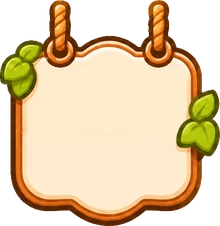
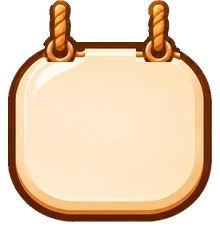
TabbyChef V80: oyun her zaman yatay, yatay düzen, sade tabelalar
Claude-Session: https://claude.ai/code/session_01UNLka1V3qjtzGGXjG521nK

diff --git a/index.html b/index.html
@@ -6,12 +6,12 @@
 <style>
 /* Layout: full-screen WebGL café (primary screen). Top: level/XP card + goal chip (left), coins (right). Bottom: hint line + 4-tab nav.
    Market = bottom sheet over the café (café stays visible for previews); Recipes and Merge = full panels above the nav. Single warm theme by design. */
-:root{--cream:#fbf3e4;--paper:#fff8ec;--ink:#4a2e1c;--gold:#f2b134;--olive:#8a9a3b;--pink:#f2a6a0;--wood:#c98a4e;--wood2:#b87a42;--mint:#bfe39a;--red:#d9534f;--sky:#bfe3f5;
+:root{--vw:1vw;--vh:1vh;--cream:#fbf3e4;--paper:#fff8ec;--ink:#4a2e1c;--gold:#f2b134;--olive:#8a9a3b;--pink:#f2a6a0;--wood:#c98a4e;--wood2:#b87a42;--mint:#bfe39a;--red:#d9534f;--sky:#bfe3f5;
   --sab:env(safe-area-inset-bottom,0px);--sat:env(safe-area-inset-top,0px);   /* Claude uygulaması :root'u zaten bu kadar boşlukla açarsa JS bunları 0 yapar */
   --navh:66px;--font-display:"Baloo 2","Nunito",system-ui,sans-serif;--font-body:"Nunito",system-ui,sans-serif;color-scheme:light}
 html{height:100%;box-sizing:border-box}body{height:100%}
 body{margin:0;background:#2b1a10;color:var(--ink);font-family:var(--font-body);overflow:hidden;-webkit-user-select:none;user-select:none;-webkit-tap-highlight-color:transparent;touch-action:none}
-#game{position:relative;width:100%;height:100%;overflow:hidden;background:#2b1a10}   /* 100dvh değil: sayfa çerçevenin güvenli alan boşluğunun içine sığmalı */
+#game{position:relative;width:100%;height:100%;overflow:hidden;background:#2b1a10}   /* calc(100*var(--vh)) değil: sayfa çerçevenin güvenli alan boşluğunun içine sığmalı */
 canvas{display:block;width:100%;height:100%;touch-action:none}
 button{font:inherit;color:inherit}
 svg.i{display:block;width:100%;height:100%}
@@ -29,7 +29,7 @@ svg.i{display:block;width:100%;height:100%}
 .xpbar{height:9px;border:2px solid var(--ink);border-radius:999px;background:#f3e2c6;overflow:hidden}
 .xpbar i{display:block;height:100%;width:0;background:var(--olive);transition:width .45s ease}
 .lvl-info small{font-size:11px;line-height:1;font-weight:800;opacity:.75;font-variant-numeric:tabular-nums}
-.goal{display:flex;align-items:center;gap:6px;max-width:min(62vw,260px);background:rgba(255,248,236,.94);border:2.5px solid var(--ink);border-radius:12px;padding:3px 9px 3px 5px;font-size:12px;font-weight:800;line-height:1.2;box-shadow:0 2px 0 var(--ink)}
+.goal{display:flex;align-items:center;gap:6px;max-width:min(calc(62*var(--vw)),260px);background:rgba(255,248,236,.94);border:2.5px solid var(--ink);border-radius:12px;padding:3px 9px 3px 5px;font-size:12px;font-weight:800;line-height:1.2;box-shadow:0 2px 0 var(--ink)}
 .goal .ic{width:18px;height:18px;flex:none}
 .goal em{font-style:normal;opacity:.7;font-variant-numeric:tabular-nums;white-space:nowrap}
 .bottom{position:absolute;left:0;right:0;bottom:calc(var(--navh) + var(--sab) + 6px);z-index:4;padding-inline:16px;pointer-events:none}
@@ -137,7 +137,7 @@ svg.i{display:block;width:100%;height:100%}
 .energy .ebar small{font-size:11px;font-weight:800;opacity:.75;line-height:1;font-variant-numeric:tabular-nums}
 .ebar .xpbar i{background:var(--gold)}
 .board-wrap{padding:6px 14px;display:flex;justify-content:center}
-.board{--cell:min(calc((100vw - 92px)/6),68px);display:grid;grid-template-columns:repeat(6,var(--cell));grid-template-rows:repeat(6,var(--cell));gap:3px;padding:3px;
+.board{--cell:min(calc((calc(100*var(--vw)) - 92px)/6),68px);display:grid;grid-template-columns:repeat(6,var(--cell));grid-template-rows:repeat(6,var(--cell));gap:3px;padding:3px;
   border-style:solid;border-width:30px 26px 28px 26px;border-image:url(img/board_frame.webp) 126 110 114 110 fill / 30px 26px 28px 26px stretch;filter:drop-shadow(0 4px 0 rgba(74,46,28,.35));touch-action:none}
 .cell{position:relative;background:url(img/cell_empty.png) center/100% 100% no-repeat;border-radius:12px;display:grid;place-items:center}
 .cell.hl{background-image:url(img/cell_match.png)}
@@ -164,7 +164,7 @@ svg.i{display:block;width:100%;height:100%}
 .info .box .tx b{display:block;font-family:var(--font-display);font-size:15px;line-height:1.1;margin-bottom:2px}
 .info .box .btn{font-size:13px;padding:6px 10px}
 /* bildirimler ve seviye */
-.toasts{position:absolute;left:50%;top:calc(max(10px,var(--sat)) + 104px);transform:translateX(-50%);z-index:12;display:flex;flex-direction:column;gap:6px;align-items:center;pointer-events:none;width:min(92vw,360px)}
+.toasts{position:absolute;left:50%;top:calc(max(10px,var(--sat)) + 104px);transform:translateX(-50%);z-index:12;display:flex;flex-direction:column;gap:6px;align-items:center;pointer-events:none;width:min(calc(92*var(--vw)),360px)}
 .toast{display:flex;align-items:center;gap:8px;background:var(--paper);border:3px solid var(--ink);border-radius:14px;padding:6px 12px 6px 6px;font-size:13px;font-weight:800;line-height:1.25;box-shadow:0 3px 0 var(--ink);animation:tin .3s ease}
 .toast .ic,.toast img{width:30px;height:30px;flex:none}
 .toast.out{opacity:0;transform:translateY(-6px);transition:all .3s}
@@ -180,8 +180,8 @@ svg.i{display:block;width:100%;height:100%}
 .lvcard p{margin:0 0 10px;font-size:13px;font-weight:800;opacity:.8}
 .lvgift{display:flex;justify-content:center;gap:10px;margin:2px 0 10px}.lvgift>span{display:inline-flex;align-items:center;gap:5px;padding:4px 12px;border:2.5px solid var(--ink);border-radius:999px;background:#fff3d6;font-family:var(--font-display);font-size:17px}.lvgift .ic,.lvgift svg{width:22px!important;height:22px!important;flex:none}
 .lvup{width:min(100%,318px);padding:36px 12px 12px}.lvup .star{width:74px;height:74px;top:-34px}.lvup .star span{font-size:24px}.lvup h3{font-size:21px}.lvup p{margin-bottom:6px}
-.lvup .unl{display:grid;grid-template-columns:1fr 1fr;gap:5px;max-height:26vh;margin-bottom:10px}.lvup .unl div{font-size:10.5px;gap:5px;padding:3px 6px 3px 3px;border-width:2px;border-radius:10px}.lvup .unl img,.lvup .unl .ic{width:26px;height:26px;border-radius:6px}.lvup .unl div:only-child{grid-column:1/-1}.lvup .btn{padding-top:8px;padding-bottom:8px}
-.unl{display:flex;flex-direction:column;gap:6px;max-height:42vh;overflow-y:auto;margin-bottom:12px;text-align:left}
+.lvup .unl{display:grid;grid-template-columns:1fr 1fr;gap:5px;max-height:calc(26*var(--vh));margin-bottom:10px}.lvup .unl div{font-size:10.5px;gap:5px;padding:3px 6px 3px 3px;border-width:2px;border-radius:10px}.lvup .unl img,.lvup .unl .ic{width:26px;height:26px;border-radius:6px}.lvup .unl div:only-child{grid-column:1/-1}.lvup .btn{padding-top:8px;padding-bottom:8px}
+.unl{display:flex;flex-direction:column;gap:6px;max-height:calc(42*var(--vh));overflow-y:auto;margin-bottom:12px;text-align:left}
 .unl div{display:flex;align-items:center;gap:8px;background:var(--paper);border:2.5px solid var(--ink);border-radius:12px;padding:4px 8px 4px 4px;font-size:12px;font-weight:800;line-height:1.2}
 .unl img,.unl .ic{width:36px;height:36px;flex:none;border-radius:8px;background:#f6e6cc}
 .confetti{position:absolute;inset:0;pointer-events:none;overflow:hidden;border-radius:22px}
@@ -234,6 +234,42 @@ svg.i{display:block;width:100%;height:100%}
   <div class="modal" id="lvModal" hidden></div>
   <div id="load" hidden><div>Kafe hazırlanıyor…</div><div id="bar"><i id="barfill"></i></div><small id="loadmsg">Yosun ve Poşa yükleniyor (yaklaşık 6 MB).</small></div>
 </div>
+
+<script>
+/* ================= YATAY OYUN: telefon dikey tutulsa da oyun yatay açılır =================
+   Dikeyde sayfa (body) 90° döndürülür. Oyunun bütün kodu "sanal" yatay bir ekran görür: innerWidth/innerHeight,
+   dokunma koordinatları (clientX/Y, pageX/Y), getBoundingClientRect ve elementFromPoint bu sanal ekrana çevrilir. */
+(function(){
+  const de=document.documentElement,R={on:false,w:0,h:0};window.__ROT=R;
+  const realW=()=>de.clientWidth||screen.width,realH=()=>de.clientHeight||screen.height;
+  const dIW=Object.getOwnPropertyDescriptor(window,'innerWidth')||Object.getOwnPropertyDescriptor(Window.prototype,'innerWidth');
+  const dIH=Object.getOwnPropertyDescriptor(window,'innerHeight')||Object.getOwnPropertyDescriptor(Window.prototype,'innerHeight');
+  const iw=()=>dIW&&dIW.get?dIW.get.call(window):realW(),ih=()=>dIH&&dIH.get?dIH.get.call(window):realH();
+  try{Object.defineProperty(window,'innerWidth',{configurable:true,get(){return R.on?ih():iw()}});Object.defineProperty(window,'innerHeight',{configurable:true,get(){return R.on?iw():ih()}})}catch(e){}
+  // olay koordinatları: gerçek (rx,ry) -> sanal (ry, W-rx)
+  const wrap=(P,a,b)=>{const da=Object.getOwnPropertyDescriptor(P,a),db=Object.getOwnPropertyDescriptor(P,b);if(!da||!db||!da.get)return;
+    Object.defineProperty(P,a,{configurable:true,get(){const v=da.get.call(this);return R.on?db.get.call(this):v}});
+    Object.defineProperty(P,b,{configurable:true,get(){const v=db.get.call(this);return R.on?R.w-da.get.call(this):v}})};
+  wrap(MouseEvent.prototype,'clientX','clientY');wrap(MouseEvent.prototype,'pageX','pageY');
+  if(window.Touch){wrap(Touch.prototype,'clientX','clientY');wrap(Touch.prototype,'pageX','pageY')}
+  const gbr=Element.prototype.getBoundingClientRect;
+  Element.prototype.getBoundingClientRect=function(){const r=gbr.call(this);if(!R.on)return r;const W=R.w;
+    const o={left:r.top,top:W-r.right,width:r.height,height:r.width};o.right=o.left+o.width;o.bottom=o.top+o.height;o.x=o.left;o.y=o.top;o.toJSON=()=>o;return o};
+  const efp=Document.prototype.elementFromPoint;Document.prototype.elementFromPoint=function(x,y){return R.on?efp.call(this,R.w-y,x):efp.call(this,x,y)};
+  const efps=Document.prototype.elementsFromPoint;if(efps)Document.prototype.elementsFromPoint=function(x,y){return R.on?efps.call(this,R.w-y,x):efps.call(this,x,y)};
+  let st=null;
+  function apply(){const w=iw(),h=ih(),on=h>w*1.05;R.on=on;R.w=w;R.h=h;de.classList.toggle('rot',on);de.classList.toggle('land',true);
+    const VW=on?h:w,VH=on?w:h;de.style.setProperty('--vw',VW/100+'px');de.style.setProperty('--vh',VH/100+'px');
+    if(!st){st=document.createElement('style');document.head.appendChild(st)}
+    st.textContent=on?`html.rot,html.rot body{overflow:hidden}html.rot body{position:fixed;left:0;top:0;width:${h}px;height:${w}px;transform-origin:0 0;transform:translateX(${w}px) rotate(90deg)}
+      html.rot{--sat:0px;--sab:0px}`:'';
+    // oyun kendi boyutunu yeniden hesaplasın
+    try{window.dispatchEvent(new Event('rotchange'))}catch(e){}}
+  apply();addEventListener('resize',()=>{const was=R.on+':'+R.w;apply();if(was!==R.on+':'+R.w)setTimeout(()=>dispatchEvent(new Event('resize')),30)});
+  if(window.visualViewport)visualViewport.addEventListener('resize',apply);
+  try{screen.orientation&&screen.orientation.lock&&screen.orientation.lock('landscape').catch(()=>{})}catch(e){}
+})();
+</script>
 
 <script type="importmap">
 {"imports":{"three":"./three/build/three.module.js","three/addons/":"./three/examples/jsm/"}}
@@ -2608,12 +2644,11 @@ $('nav').innerHTML=NAV.map(n=>`<button type="button" data-nav="${n.id}" aria-pre
 {const st=document.createElement('style');st.textContent=`
 .nonav{--navh:0px}.nonav #nav{display:none!important}.nonav .sheet{bottom:calc(var(--sab) + 6px)}
 #navHide,#navShow{display:none}
-@media (orientation:landscape){
-  #navHide{display:grid;place-items:center;position:absolute;right:max(10px,env(safe-area-inset-right,0px));top:50%;transform:translateY(-50%);width:38px;height:38px;border:3px solid var(--ink);border-radius:50%;background:var(--paper);box-shadow:0 3px 0 var(--ink);cursor:pointer;padding:6px}
-  #navHide .ic,#navShow .ic{width:100%;height:100%}
-  .navmin{--navh:0px}.navmin #nav{display:none!important}
-  .navmin:not(.nonav) #navShow{display:flex;align-items:center;gap:6px;position:absolute;z-index:8;left:max(12px,env(safe-area-inset-left,0px));bottom:calc(var(--sab) + 10px);border:3px solid var(--ink);border-radius:999px;background:var(--paper);box-shadow:0 3px 0 var(--ink);padding:5px 12px 5px 6px;font-family:var(--font-display);font-weight:800;font-size:13px;cursor:pointer}
-  .navmin:not(.nonav) #navShow .ic{width:24px;height:24px}}`;document.head.appendChild(st)}
+html.land #navHide{display:grid;place-items:center;position:absolute;right:max(10px,env(safe-area-inset-right,0px));top:50%;transform:translateY(-50%);width:38px;height:38px;border:3px solid var(--ink);border-radius:50%;background:var(--paper);box-shadow:0 3px 0 var(--ink);cursor:pointer;padding:6px}
+html.land #navHide .ic,#navShow .ic{width:100%;height:100%}
+html.land .navmin{--navh:0px} html.land .navmin #nav{display:none!important}
+html.land .navmin:not(.nonav) #navShow{display:flex;align-items:center;gap:6px;position:absolute;z-index:8;left:max(12px,env(safe-area-inset-left,0px));bottom:calc(var(--sab) + 10px);border:3px solid var(--ink);border-radius:999px;background:var(--paper);box-shadow:0 3px 0 var(--ink);padding:5px 12px 5px 6px;font-family:var(--font-display);font-weight:800;font-size:13px;cursor:pointer}
+html.land .navmin:not(.nonav) #navShow .ic{width:24px;height:24px}`;document.head.appendChild(st)}
 UI_IC.chevDown=SV(`<path d="M18 26 L32 40 L46 26" stroke-width="6"/>`);UI_IC.chevUp=SV(`<path d="M18 38 L32 24 L46 38" stroke-width="6"/>`);
 {const h=document.createElement('button');h.type='button';h.id='navHide';h.setAttribute('aria-label','Alt menüyü gizle');h.innerHTML=ic('chevDown');$('nav').appendChild(h);
  const sh=document.createElement('button');sh.type='button';sh.id='navShow';sh.setAttribute('aria-label','Alt menüyü göster');sh.innerHTML=`${ic('chevUp')}Menüler`;$('game').appendChild(sh);
@@ -3069,7 +3104,7 @@ const PAW=`<svg viewBox="0 0 40 40" aria-hidden="true"><ellipse cx="20" cy="26" 
 #intro{position:absolute;inset:0;z-index:40;display:flex;flex-direction:column;align-items:center;justify-content:center;gap:18px;background:var(--cream);
   background-image:radial-gradient(circle at 12px 12px,rgba(201,138,78,.12) 2px,transparent 2.5px);background-size:24px 24px;transition:opacity .5s ease;cursor:pointer;padding:20px;box-sizing:border-box}
 #intro.out{opacity:0;pointer-events:none}
-#intro .logo{width:min(80vw,380px);height:auto;overflow:visible}
+#intro .logo{width:min(calc(80*var(--vw)),380px);height:auto;overflow:visible}
 .lg-head{opacity:0;transform-box:fill-box;transform-origin:50% 100%;animation:lgHead .7s cubic-bezier(.3,1.6,.5,1) 1.1s forwards}
 @keyframes lgHead{0%{opacity:0;transform:translateY(40px) scale(.4)}100%{opacity:1;transform:none}}
 .lg-hat{opacity:0;transform-box:fill-box;transform-origin:50% 100%;animation:lgHat .8s cubic-bezier(.25,1.5,.5,1) 1.7s forwards}
@@ -3090,7 +3125,7 @@ const PAW=`<svg viewBox="0 0 40 40" aria-hidden="true"><ellipse cx="20" cy="26" 
 #intro .sub{font-family:var(--font-display);font-weight:800;font-size:15px;color:var(--wood2);opacity:0;animation:fadeUp .5s ease 3.0s forwards;text-align:center}
 #intro .ld{display:flex;flex-direction:column;align-items:center;gap:6px;min-height:40px}
 #intro .ld[hidden]{display:none}
-#intro .ld div{width:min(60vw,240px);height:10px;border:3px solid var(--ink);border-radius:999px;overflow:hidden;background:#fff8ec}
+#intro .ld div{width:min(calc(60*var(--vw)),240px);height:10px;border:3px solid var(--ink);border-radius:999px;overflow:hidden;background:#fff8ec}
 #intro .ld i{display:block;height:100%;width:0;background:var(--gold)}
 #intro .ld small{font-size:12px;font-weight:800;opacity:.7}
 #intro .skip{position:absolute;bottom:calc(16px + var(--sab));font-size:12px;font-weight:800;opacity:.55}
@@ -3180,7 +3215,7 @@ const CE={role:null,cfg:null,orig:null,mode:'create',step:0,tab:'look',cat:'fur'
 const CE_CATS=[['fur','Kürk'],['pattern','Desen'],['marks','İşaretler'],['eyes','Gözler'],['ears','Kulaklar'],['face','Yüz'],['body','Vücut']];
 const CW_SLOTS=[['outfit','Takımlar'],['apron','Önlük'],['neck','Boyun'],['hat','Şapka']];
 {const st=document.createElement('style');st.textContent=`
-#ce .pv{position:relative;height:min(36vh,300px);margin:6px 14px 0;border:3px solid var(--ink);border-radius:18px;background:radial-gradient(circle at 50% 40%,#fff8ec,#f3e2c6);overflow:hidden;flex:none}
+#ce .pv{position:relative;height:min(calc(36*var(--vh)),300px);margin:6px 14px 0;border:3px solid var(--ink);border-radius:18px;background:radial-gradient(circle at 50% 40%,#fff8ec,#f3e2c6);overflow:hidden;flex:none}
 #ce .pv canvas{display:block}
 #ce .pv .views{position:absolute;right:8px;top:8px;display:flex;flex-direction:column;gap:6px}
 #ce .pv .views button{width:36px;height:36px;padding:6px}
@@ -3209,7 +3244,7 @@ const CW_SLOTS=[['outfit','Takımlar'],['apron','Önlük'],['neck','Boyun'],['ha
 .ce-foot .cost{text-align:center;font-size:12px;font-weight:800;line-height:1.3}
 .ce-foot .btn{font-size:14px;padding:8px 12px}
 .team{display:flex;flex-direction:column;gap:10px;padding:10px 14px 18px;max-width:560px;margin:0 auto}
-.team .tlogo{width:min(60vw,240px);margin:4px auto 0;display:block}
+.team .tlogo{width:min(calc(60*var(--vw)),240px);margin:4px auto 0;display:block}
 .tc{display:flex;gap:10px;align-items:center;background:var(--paper);border:3px solid var(--ink);border-radius:16px;padding:8px;box-shadow:0 3px 0 var(--ink)}
 .tc .th{width:86px;height:104px;flex:none;border-radius:12px;background:#f6e6cc;overflow:hidden}.tc .th img{width:100%;height:100%;object-fit:contain}
 .tc .tx{flex:1;min-width:0;display:flex;flex-direction:column;gap:3px;font-size:12px;font-weight:800;line-height:1.3}
@@ -4241,7 +4276,7 @@ function renderPrices(L){const rs=RECIPES.filter(r=>S.unlocked[r.id]);
     if(setPrice(id,priceOf(RECIPE[id])+(+b.dataset.pd))){sfx('tap');renderMenu()}else sfx('nope')}}
 {const st=document.createElement('style');st.textContent=`
 .pill.reppill{cursor:pointer;display:inline-flex;flex-direction:row;align-items:center;gap:4px;white-space:nowrap;font:inherit;font-family:var(--font-display);font-weight:800;color:var(--ink)}.pill.reppill svg{width:20px;height:20px;flex:none}
-.repcard{text-align:left;max-height:86vh;overflow:auto}.repcard h3{text-align:center}.repcard h4{margin:10px 0 4px;font-family:var(--font-display)}
+.repcard{text-align:left;max-height:calc(86*var(--vh));overflow:auto}.repcard h3{text-align:center}.repcard h4{margin:10px 0 4px;font-family:var(--font-display)}
 .rtop{display:flex;align-items:center;gap:8px;justify-content:center;flex-wrap:wrap}.rtop>b{font-family:var(--font-display);font-size:34px;line-height:1}.rtop span{font-size:13px;font-weight:800}
 .rnote{font-size:12px!important;opacity:.75;text-align:center}
 .stars{display:inline-flex;gap:1px}.stars .st{width:14px;height:14px;background:rgba(74,46,28,.18);clip-path:polygon(50% 0,61% 35%,98% 35%,68% 57%,79% 91%,50% 70%,21% 91%,32% 57%,2% 35%,39% 35%)}
@@ -4587,7 +4622,7 @@ function stockUI(){const e=$('stkChip');if(!e||!S.created)return;const T=stockS(
 .sk .pn{color:#4f86c6}.sk.off{opacity:.55}.sk.low{background:#fff3d6}.sk.out{background:#ffe1dc}.sk.out .tx b em{color:#c8443a}
 .sbar{display:block;height:8px;border-radius:6px;border:2px solid var(--ink);background:linear-gradient(90deg,#7fae4a var(--w),rgba(74,46,28,.12) var(--w))}.sk.low .sbar{background:linear-gradient(90deg,#e0a33a var(--w),rgba(74,46,28,.12) var(--w))}
 .sk .stars .st{width:11px;height:11px}
-.supcard{text-align:left;max-height:88vh;overflow:auto;width:min(94vw,420px);padding-top:16px}.supcard.noanim{animation:none}.supcard h3{text-align:center}
+.supcard{text-align:left;max-height:calc(88*var(--vh));overflow:auto;width:min(calc(94*var(--vw)),420px);padding-top:16px}.supcard.noanim{animation:none}.supcard h3{text-align:center}
 .sups{display:flex;flex-direction:column;gap:7px;margin:8px 0 10px}.sup{font:inherit;text-align:left;display:flex;flex-direction:column;gap:2px;padding:8px 11px;border:3px solid var(--ink);border-radius:14px;background:linear-gradient(90deg,var(--c) 0 8px,var(--paper) 8px);padding-left:18px;color:var(--ink);cursor:pointer}
 .sup b{font-family:var(--font-display);font-size:16px}.sup span{font-size:12px;font-weight:700}.sup .row{display:flex;gap:8px;align-items:center;flex-wrap:wrap}.sup em{font-style:normal;font-weight:800;display:inline-flex;align-items:center;gap:2px}.sup em svg{width:15px;height:15px}
 .sup .miss{color:#b0503c}.sup:active{transform:scale(.98)}
@@ -4747,7 +4782,7 @@ function openFin(){if($('finModal'))return;UI.modal=true;let win=60;const md=doc
 
 {const st=document.createElement('style');st.textContent=`
 .finmini{display:inline-grid;width:18px;height:18px;margin-left:2px;opacity:.85}.finmini svg{width:18px;height:18px}
-.fincard,.repcard{text-align:left;max-height:88vh;overflow:auto;width:min(94vw,420px);padding-top:16px}.fincard h3{text-align:center}.fincard h4{margin:12px 0 4px;font-family:var(--font-display)}
+.fincard,.repcard{text-align:left;max-height:calc(88*var(--vh));overflow:auto;width:min(calc(94*var(--vw)),420px);padding-top:16px}.fincard h3{text-align:center}.fincard h4{margin:12px 0 4px;font-family:var(--font-display)}
 .fseg{display:flex;gap:6px;margin:6px 0}.fseg button,.rfilt button{flex:1;font:inherit;font-family:var(--font-display);font-weight:800;font-size:14px;padding:5px;border:3px solid var(--ink);border-radius:12px;background:var(--paper);color:var(--ink);cursor:pointer}
 .fseg button[aria-pressed="true"],.rfilt button[aria-pressed="true"]{background:var(--gold)}
 .ftiles{display:grid;grid-template-columns:repeat(4,1fr);gap:5px;margin:6px 0}.ft{font:inherit;color:var(--ink);background:var(--paper);border:2.5px solid var(--ink);border-radius:12px;padding:5px 3px;display:flex;flex-direction:column;align-items:center;text-align:center;min-width:0}
@@ -4843,7 +4878,7 @@ function bend(ch,dur,onMid){return new Promise(res=>{const sp=[ch.o.getObjectByN
     if(!mid&&u>=0.5){mid=true;try{onMid&&onMid()}catch(e){console.warn(e)}}if(u>=1){ch.post=null;res()}}})}
 
 {const st=document.createElement('style');st.textContent=`
-.daycard{text-align:left;max-height:88vh;overflow:auto;width:min(94vw,400px);padding-top:14px}.daycard h4{margin:12px 0 4px;font-family:var(--font-display)}
+.daycard{text-align:left;max-height:calc(88*var(--vh));overflow:auto;width:min(calc(94*var(--vw)),400px);padding-top:14px}.daycard h4{margin:12px 0 4px;font-family:var(--font-display)}
 .dhead{display:flex;align-items:center;gap:10px;justify-content:center}.dhead>svg{width:44px!important;height:44px!important;flex:none}.dhead small{display:block;font-weight:800;opacity:.7}.dhead h3{margin:0}
 .dnet{display:flex;align-items:center;justify-content:space-between;margin:10px 0 6px;padding:8px 14px;border:3px solid var(--ink);border-radius:16px;background:#fff3d6}
 .dnet span{font-weight:800}.dnet b{font-family:var(--font-display);font-size:26px;display:inline-flex;align-items:center;gap:4px}.dnet b svg{width:24px;height:24px}
@@ -5913,7 +5948,7 @@ function hireCand(id,swapKey,only){const C=S.cand,c=C&&C.list.find(x=>x.id===id)
 .srow{display:grid;grid-template-columns:86px auto 1fr;align-items:center;gap:6px;font-size:11.5px;font-weight:700}.srow em{font-style:normal;opacity:.7;white-space:nowrap;overflow:hidden;text-overflow:ellipsis}
 .sen{display:flex;align-items:center;gap:6px;font-size:11.5px;font-weight:800}.ebar{flex:1;height:8px;border:2px solid var(--ink);border-radius:99px;background:#f3e3bf;overflow:hidden}.ebar i{display:block;height:100%;background:#8fd16a}
 .wsum{font-size:12.5px;font-weight:700;text-align:center;margin:10px 0}.wsum .ic{width:14px;height:14px;display:inline-grid;vertical-align:-2px}
-.hirecard2{max-height:88vh;display:flex;flex-direction:column;gap:8px;width:min(440px,94vw)}.hirecard2 p{margin:0;font-size:12.5px}
+.hirecard2{max-height:calc(88*var(--vh));display:flex;flex-direction:column;gap:8px;width:min(440px,calc(94*var(--vw)))}.hirecard2 p{margin:0;font-size:12.5px}
 .adrow{display:flex;gap:6px}.adrow .btn{flex:1;flex-direction:column;align-items:flex-start;gap:0;padding:6px 8px;text-align:left}.adrow small{font-size:10.5px;font-weight:700;opacity:.8}.adrow .ic{width:12px;height:12px;display:inline-grid}
 .clist{overflow:auto;display:flex;flex-direction:column;gap:8px;min-height:0}
 .cand{display:grid;grid-template-columns:76px 1fr;gap:8px;padding:8px;border:2.5px solid var(--ink);border-radius:14px;background:#fffaf0}
@@ -6044,7 +6079,7 @@ const skStars=(v,cls='')=>{let h='';for(let i=1;i<=5;i++){const f=v>=i-0.25?1:v>
 .skwin>.napkin{position:absolute;left:50%;bottom:-6px;width:118px;height:auto;transform:translateX(-50%);pointer-events:none}
 .skhead{position:absolute;left:0;right:0;top:-6px;height:84px;pointer-events:none}
 .skplaque{position:absolute;left:50%;top:2px;transform:translateX(-50%);width:min(56%,214px);aspect-ratio:760/246;background:url(${UIIMG('plaque')}) center/contain no-repeat;display:flex;align-items:center;justify-content:center;padding-top:5%}
-.skplaque h2{margin:0;font-family:var(--font-display);font-weight:900;font-size:clamp(19px,6vw,25px);color:#5a2f12;letter-spacing:.3px;text-shadow:0 1px 0 #fff3d8}
+.skplaque h2{margin:0;font-family:var(--font-display);font-weight:900;font-size:clamp(19px,calc(6*var(--vw)),25px);color:#5a2f12;letter-spacing:.3px;text-shadow:0 1px 0 #fff3d8}
 .skcat{position:absolute;left:4px;top:-2px;width:66px;height:auto;transform:rotate(-6deg)}
 .skclose{position:absolute;right:2px;top:6px;width:42px;height:42px;border:0;padding:0;background:url(${UIIMG('btn_close')}) center/contain no-repeat;pointer-events:auto;cursor:pointer;filter:drop-shadow(0 2px 2px rgba(60,30,10,.3))}
 .skclose:active{transform:scale(.93)}
@@ -6201,7 +6236,7 @@ openHire=function(only){let m=$('skHire');if(!m){m=document.createElement('div')
 #merge.skin .mgtarget>.ic{background:url(${UIIMG('i_target')}) center/contain no-repeat}#merge.skin .mgtarget>.ic>*{display:none}
 #merge.skin .mgtarget .btn{border:0;box-shadow:none;background:none;border-image:url(${UIIMG('pill_gold')}) 0 100 fill/0 16px stretch;font-family:var(--font-display);font-weight:900;color:#5a2f12;padding:6px 16px}
 #merge.skin .board-wrap{padding:4px 0}
-#merge.skin .board{--cell:max(34px,min(calc((100vw - 104px)/6),64px,calc((100dvh - var(--sat,0px) - var(--sab,0px) - var(--navh,60px) - 470px)/6)));border-width:24px;border-image:url(${UIIMG('tray')}) 92 fill/24px stretch;filter:drop-shadow(0 4px 6px rgba(60,30,10,.35));gap:4px;padding:2px}
+#merge.skin .board{--cell:max(34px,min(calc((calc(100*var(--vw)) - 104px)/6),64px,calc((calc(100*var(--vh)) - var(--sat,0px) - var(--sab,0px) - var(--navh,60px) - 470px)/6)));border-width:24px;border-image:url(${UIIMG('tray')}) 92 fill/24px stretch;filter:drop-shadow(0 4px 6px rgba(60,30,10,.35));gap:4px;padding:2px}
 #merge.skin .cell{background-image:url(${UIIMG('c_empty')});border-radius:10px}
 #merge.skin .cell.hl{background-image:url(${UIIMG('c_match')})}
 #merge.skin .cell.sel{background-image:url(${UIIMG('c_sel')})}
@@ -6238,12 +6273,12 @@ setTimeout(()=>{for(const n of ['street','tray','c_empty','c_match','c_sel','i_t
 :root{--navh:70px}
 .skhud .lvl,.skhud>div:not(.skprof):not(.skright):not(.skside):not(.skdaybox){display:none!important}
 .skprof,.skright,.skside,.skdaybox{pointer-events:auto}
-.skprof{position:absolute;left:4px;top:calc(max(6px,var(--sat)) - 2px);width:min(60vw,236px);aspect-ratio:760/362;background:url(${UIIMG('h_profile')}) center/100% 100% no-repeat}
+.skprof{position:absolute;left:4px;top:calc(max(6px,var(--sat)) - 2px);width:min(calc(60*var(--vw)),236px);aspect-ratio:760/362;background:url(${UIIMG('h_profile')}) center/100% 100% no-repeat}
 .skprof .por{position:absolute;left:13.5%;top:39.5%;width:18.6%;aspect-ratio:1;border-radius:50%;overflow:hidden;background:#f8e4c6}
 .skprof .por img{width:100%;height:100%;object-fit:cover;object-position:50% 8%;transform:scale(1.6);transform-origin:50% 10%}
 .skprof .ed{position:absolute;left:26%;top:68%;width:11%!important;height:auto!important;cursor:pointer}
 .skprof .tx{position:absolute;left:36%;right:17%;top:36%;bottom:9%;display:flex;flex-direction:column;align-items:center;justify-content:center;gap:2px}
-.skprof .nm{font-family:var(--font-display);font-weight:900;font-size:clamp(11px,3.6vw,14px);color:#4a2a14;white-space:nowrap;overflow:hidden;text-overflow:ellipsis;max-width:100%;line-height:1.05}
+.skprof .nm{flex:none;font-family:var(--font-display);font-weight:900;font-size:clamp(11px,calc(3.6*var(--vw)),14px);color:#4a2a14;white-space:nowrap;overflow:hidden;text-overflow:ellipsis;max-width:100%;line-height:1.05}
 .skprof .lvr{display:flex;align-items:center;gap:0;width:100%}
 .skprof .lvlstar{position:relative;width:22px;height:22px;flex:none;background:url(${UIIMG('h_star')}) center/contain no-repeat;display:grid;place-items:center;z-index:1;margin-right:-6px}
 .skprof .lvlstar #lvlBadge{all:unset;font-family:var(--font-display);font-weight:900;font-size:11px;color:#5a2f12;line-height:1;margin-top:2px}
@@ -6253,8 +6288,8 @@ setTimeout(()=>{for(const n of ['street','tray','c_empty','c_match','c_sel','i_t
 .skprof .xpbar{width:100%;height:9px!important;border:2px solid #5a2f12!important;border-radius:999px!important;background:#fff6e6!important;overflow:hidden;box-sizing:border-box}
 .skprof .xpbar i{display:block;height:100%;border-radius:999px;background:linear-gradient(#a9df5c,#7cc243 55%,#62a62e)!important}
 .skprof #xpTxt{font-size:9px;font-weight:900;color:#6b4426;line-height:1}
-.skprof .goal{position:absolute;left:2px;top:calc(100% + 2px);width:calc(100% - 4px);max-width:none;margin:0;border:0;box-shadow:none;background:none;border-style:solid!important;border-width:0!important;border-image:url(${UIIMG('h_task')}) 0 170 fill/0 40px stretch!important;min-height:34px;padding:4px 10px 4px 40px;box-sizing:border-box}
-.skprof .goal .gr>.ic:first-child{display:none}
+.skprof .goal{position:absolute;left:2px;top:calc(100% + 2px);width:calc(100% - 4px);max-width:none;margin:0;border:0;box-shadow:none;background:none;border-style:solid!important;border-width:0!important;border-image:url(${UIIMG('h_task')}) 0 70 fill/0 18px stretch!important;min-height:34px;padding:4px 12px 4px 12px;box-sizing:border-box}
+.skprof .goal .gr>.ic:first-child{display:inline-block;width:18px;height:18px;background:url(${UIIMG('d_check')}) center/contain no-repeat}.skprof .goal .gr>.ic:first-child>*{display:none}
 .skright{position:absolute;right:6px;top:calc(max(6px,var(--sat)) + 2px);width:128px;display:flex;flex-direction:column;align-items:flex-end;gap:5px}
 .skright .pill{margin:0!important;border:0!important;box-shadow:none!important;background:none!important;border-style:solid!important;border-width:0!important;border-image:url(${UIIMG('h_money')}) 0 80 fill/0 16px stretch!important;display:flex;align-items:center;gap:4px;height:32px;box-sizing:border-box;padding:0 4px 0 6px;width:100%;position:relative}
 .skright .pill .ic{width:22px;height:22px;flex:none}.skright .pill.coins .ic{background:url(${UIIMG('i_coin')}) center/contain no-repeat}.skright .pill.coins .ic>*{display:none}
@@ -6265,7 +6300,7 @@ setTimeout(()=>{for(const n of ['street','tray','c_empty','c_match','c_sel','i_t
 .skright #repPill{width:auto;height:26px;padding:0 10px;border-image:url(${UIIMG('pill_cream')}) 0 60 fill/0 13px stretch!important;font-size:13px}
 .skright #repPill svg{width:16px;height:16px}
 .skpost{position:relative;width:76px;margin-right:-2px;padding:16px 0 4px;display:flex;flex-direction:column;align-items:center;gap:3px}
-.skpost::before{content:'';position:absolute;left:50%;top:0;bottom:0;width:22px;transform:translateX(-50%);background:url(${UIIMG('h_post')}) center/100% 100% no-repeat;z-index:0}
+.skpost::before{content:'';position:absolute;left:50%;top:0;bottom:6px;width:12px;transform:translateX(-50%);background:linear-gradient(90deg,#8a4a20,#c9773a 40%,#a85c28);border:2.5px solid #4a2410;border-radius:6px;z-index:0}
 .sksign{position:relative;z-index:1;width:70px;height:74px;border:0;padding:20px 0 12px;background:url(${UIIMG('h_sign')}) center/100% 100% no-repeat;display:flex;flex-direction:column;align-items:center;justify-content:center;gap:0;cursor:pointer;
   font-family:var(--font-display);font-weight:900;font-size:10px;color:#5a2f12;line-height:1}
 .sksign img.si{width:28px;height:28px;object-fit:contain;margin-bottom:1px}
@@ -6274,16 +6309,16 @@ setTimeout(()=>{for(const n of ['street','tray','c_empty','c_match','c_sel','i_t
 .sksign.dot .dot,.sksign.has .dot{display:block}
 .sksign svg{display:none}
 #evBtn.dot::after{display:none!important}
-.skside{position:absolute;left:8px;top:calc(max(6px,var(--sat)) + min(60vw,236px)*0.476 + 48px);display:flex;flex-direction:column;gap:7px;padding:4px 0}
-.skside::before{content:'';position:absolute;left:-6px;top:-6px;bottom:-12px;width:22px;background:url(${UIIMG('h_vine')}) center/100% 100% no-repeat;z-index:0}
+.skside{position:absolute;left:8px;top:calc(max(6px,var(--sat)) + min(calc(60*var(--vw)),236px)*0.476 + 48px);display:flex;flex-direction:column;gap:7px;padding:4px 0}
+
 .skside button{position:relative;z-index:1;width:38px!important;height:38px!important;padding:0!important;border:0!important;box-shadow:none!important;background:center/contain no-repeat!important;border-radius:50%}
 .skside button>*{display:none!important}
 .skside .bg{background-image:url(${UIIMG('b_gear')})!important}.skside button[aria-label="Müzik"]{background-image:url(${UIIMG('b_music')})!important}
 .skside button[aria-label="Ses efektleri"]{background-image:url(${UIIMG('b_sound')})!important}.skside button[aria-label="Rehber"]{background-image:url(${UIIMG('b_help')})!important}
 .skside button[aria-pressed="false"]{filter:grayscale(.85) opacity(.7)}
 .skdaybox{z-index:5;position:absolute;left:8px;bottom:calc(var(--navh) + var(--sab) + 30px);display:flex;flex-direction:column;align-items:flex-start;gap:6px}
-.skdaybox #dayPill{border:0!important;box-shadow:none!important;background:none!important;border-style:solid!important;border-width:0!important;border-image:url(${UIIMG('h_day')}) 0 120 0 140 fill/0 40px 0 46px stretch!important;height:40px;min-width:150px;box-sizing:border-box;padding:3px 38px 0 50px!important;display:flex;align-items:center;font-size:13px;color:#4a2a14;white-space:nowrap}
-.skdaybox #dayPill svg{display:none}
+.skdaybox #dayPill{border:0!important;box-shadow:none!important;background:none!important;border-style:solid!important;border-width:0!important;border-image:url(${UIIMG('h_day')}) 0 80 fill/0 18px stretch!important;height:36px;min-width:120px;box-sizing:border-box;padding:2px 16px 0 12px!important;display:flex;align-items:center;font-size:13px;color:#4a2a14;white-space:nowrap}
+.skdaybox #dayPill svg{display:block;width:22px;height:22px;flex:none;margin-right:5px}
 .skdaybox .shoptop{position:static!important;margin:0!important}
 #game .bottom{bottom:calc(var(--navh) + var(--sab) + 86px)}
 #autoBtn{border:0!important;box-shadow:none!important;background:none!important;border-style:solid!important;border-width:0!important;border-image:url(${UIIMG('h_auto_off')}) 0 70 fill/0 22px stretch!important;height:42px;padding:0 16px 0 8px;color:#4a2a14;font-family:var(--font-display);font-weight:900}
@@ -6362,7 +6397,7 @@ function skRename(){if(EVMODE){toast('Etkinlik kafesinin adı değişmez',ic('ev
     S.cafeName=v;markDirty();saveNow();try{cafePublish(true)}catch(e){}hudProfile();m.close();toast(`Kafenin adı: <b>${v.replace(/[&<>]/g,'')}</b>`,ic('check'),2000)}}
 // ---------- ortak pencere (Ekip Alımı ile aynı çerçeve) ----------
 function skWin(id,title,cat='cat_peek'){let m=$(id);if(!m){m=document.createElement('div');m.id=id;m.className='modal skmodal';m.hidden=true;$('game').appendChild(m)}UI.modal=true;
-  m.innerHTML=`<div class="skwin" role="dialog" aria-label="${title}"><div class="skhead">${uiIc(cat,'skcat')}<div class="skplaque"><h2${title.length>10?' style="font-size:clamp(15px,4.6vw,19px)"':''}>${title}</h2></div><button class="skclose" type="button" aria-label="Kapat"></button></div><div class="skscroll" style="margin-top:6px"></div><div class="skfoot"></div>${uiIc('napkin','napkin')}</div>`;
+  m.innerHTML=`<div class="skwin" role="dialog" aria-label="${title}"><div class="skhead">${uiIc(cat,'skcat')}<div class="skplaque"><h2${title.length>10?' style="font-size:clamp(15px,calc(4.6*var(--vw)),19px)"':''}>${title}</h2></div><button class="skclose" type="button" aria-label="Kapat"></button></div><div class="skscroll" style="margin-top:6px"></div><div class="skfoot"></div>${uiIc('napkin','napkin')}</div>`;
   m.hidden=false;const close=()=>{m.hidden=true;UI.modal=false;hudDots()};m.querySelector('.skclose').onclick=close;return {m,body:m.querySelector('.skscroll'),foot:m.querySelector('.skfoot'),close}}
 
 // ---------- GÜNLÜK GÖREVLER ----------
@@ -6424,6 +6459,114 @@ function openSettings(){const W=skWin('skSet','Ayarlar','cat_sleep');const tg=l=
     $('setGuide').onclick=()=>{W.close();openGuide(0)};const ac=$('setAcc');if(ac)ac.onclick=()=>{W.close();authOpen()}};
   draw()}
 setTimeout(()=>{for(const n of ['h_profile','h_money','h_task','h_post','h_sign','h_day','h_auto_on','h_auto_off','navbar','n_btn','n_center'])new Image().src=UIIMG(n)},800);
+
+// ================= YATAY DÜZEN =================
+// Oyun her zaman yatay (dikeyde sayfa döndürülür, p00_rotate). Bu dosya ana ekranı, pencereleri ve tahtayı geniş/kısa ekrana göre yerleştirir.
+{const st=document.createElement('style');st.textContent=`
+html.land{--navh:64px}
+html.land .navmin{--navh:64px}html.land .navmin #nav{display:flex!important}html.land #navHide,html.land #navShow{display:none!important}
+/* alt menü: ortada, iki yanında gün kutusu ve otomatik düğmesi */
+html.land .nav{left:50%!important;right:auto!important;transform:translateX(-50%);width:min(500px,calc(100*var(--vw) - 300px))!important;height:64px!important;padding:12px 26px 4px!important;box-sizing:border-box!important;
+  background:none!important;border-style:solid!important;border-width:0 54px!important;border-image:url(${UIIMG('navbar')}) 0 150 fill/0 54px stretch!important;bottom:0!important}
+html.land .nav button{height:50px!important;max-width:66px!important;font-size:10.5px!important}
+html.land .nav button .ic{width:28px!important;height:28px!important}
+html.land .nav button.navbig{height:64px!important;max-width:80px!important;margin-top:-22px!important}
+html.land .nav button.navbig .ic{width:34px!important;height:34px!important}
+html.land .navcat{top:-34px;width:58px!important}
+html.land #game .bottom{bottom:104px;left:50%;right:auto;transform:translateX(-50%);width:min(440px,60%)}
+html.land .skdaybox{left:8px;bottom:6px;flex-direction:column-reverse;align-items:flex-start;gap:4px}
+html.land .skdaybox #dayPill{min-width:118px;font-size:12px;height:32px}
+html.land #autoBtn{right:8px;bottom:8px;height:38px;padding:0 12px 0 6px;font-size:12px;max-width:150px}
+html.land #autoBtn .ic{width:24px;height:24px}
+/* üst: profil solda; görev kartı altında; yan düğmeler görev kartının altında yan yana */
+html.land .skprof{width:clamp(176px,calc(24*var(--vw)),214px)}
+html.land .skprof .goal{min-height:30px;font-size:11px}
+html.land .skside{flex-direction:row;gap:6px;left:8px;top:calc(max(6px,var(--sat)) + clamp(176px,calc(24*var(--vw)),214px)*0.476 + 42px)}
+html.land .skside button{width:34px!important;height:34px!important}
+/* sağ üst: para kutuları en sağda, tabelalar onların solunda yatay bir kirişe asılı */
+html.land .skright{display:grid;grid-template-columns:auto 124px;grid-auto-rows:min-content;column-gap:6px;row-gap:4px;width:auto;align-items:start;justify-items:end}
+html.land .skright .pill{grid-column:2;width:124px;height:30px}
+html.land .skright #repPill{grid-column:2;width:auto}
+html.land .skpost{grid-column:1;grid-row:1/4;flex-direction:row;width:auto;padding:10px 6px 0;gap:4px;margin:0}
+html.land .skpost::before{left:0;right:0;top:3px;bottom:auto;width:auto;height:9px;transform:none}
+html.land .sksign{width:58px;height:62px;padding:15px 0 10px;font-size:9.5px}
+html.land .sksign img.si{width:24px;height:24px}
+html.land .toasts{top:calc(max(8px,var(--sat)) + 70px)}
+/* tam ekranlar alt menünün de üstünü kaplar (kapat düğmesiyle dönülür) */
+html.land .screen{bottom:0;z-index:9}
+html.land .screen .panel-head{padding-top:6px}
+/* Market: sağdan açılan panel, kafe solda görünür kalır */
+html.land .sheet{left:auto;right:0;top:0;bottom:0!important;height:auto;width:min(430px,56%);border-top:0;border-left:3px solid var(--ink);border-radius:22px 0 0 22px;transform:translateX(110%);z-index:9}
+html.land .sheet.open{transform:none}
+html.land #market .grid{grid-template-columns:repeat(auto-fill,minmax(96px,1fr))}
+/* çerçeveli pencereler: ortada, daha ince çerçeve */
+html.land .skwin{left:50%!important;right:auto!important;width:min(760px,calc(100*var(--vw) - 16px));transform:translateX(-50%);top:4px!important;bottom:2px!important;
+  border-image-width:58px 57px 70px 80px;padding:58px 18px 40px 18px}
+html.land .skhead{height:60px;top:-4px}
+html.land .skplaque{width:180px;height:58px;aspect-ratio:auto;padding:2px 0 0;box-sizing:border-box;top:0}
+html.land .skplaque h2{font-size:19px}
+html.land .skcat{width:50px;left:2px;top:-4px}
+html.land .skclose{width:36px;height:36px;top:2px}
+html.land .skbell{width:30px;right:34px}
+html.land .skwin>.napkin{width:84px;bottom:-4px}
+html.land .sktabs{margin-bottom:4px}
+html.land .sktab{height:38px;flex-direction:row;gap:5px;font-size:12px}
+html.land .sktab .uic{width:18px;height:18px}
+html.land .skfoot{flex-direction:row;align-items:center;gap:10px;padding-top:4px}
+html.land .skfoot p{flex:1;text-align:left}
+html.land .skfoot .skbtn.big{width:auto;flex:0 0 auto;height:38px;font-size:14px;padding:0 18px}
+/* Ekibim: kartlar iki sütun */
+html.land #teamList{display:grid;grid-template-columns:repeat(auto-fill,minmax(300px,1fr));column-gap:8px}
+html.land #teamList .skcard{margin-bottom:6px}
+/* Ekip Alımı: solda büyük kart, sağda aday listesi */
+html.land .skmodal .skscroll{display:grid;grid-template-columns:minmax(0,1.25fr) minmax(0,1fr);grid-template-rows:auto 1fr;column-gap:10px;align-content:start}
+html.land .skmodal .skscroll>.skhire{grid-column:1;grid-row:1/3}
+html.land .skmodal .skscroll>.sksec{grid-column:2;grid-row:1;margin:0 0 4px}
+html.land .skmodal .skscroll>.skclist{grid-column:2;grid-row:2;display:grid;grid-template-columns:repeat(3,1fr);overflow:visible;padding:2px 2px 12px;align-self:start}
+html.land .skmodal .skscroll>.skclist .skc{min-width:0}
+html.land .skhire .skport{width:100px;height:132px}
+html.land .skleft{width:100px}
+html.land .skmodal .skscroll>.skempty,html.land .skmodal .skscroll>.skq,html.land .skmodal .skscroll>.skmail,html.land .skmodal .skscroll>.skset{grid-column:1/-1}
+html.land #skDaily .skscroll,html.land #skMail .skscroll,html.land #skSet .skscroll,html.land #skRen .skscroll{display:block}
+html.land #skDaily .skwin,html.land #skMail .skwin,html.land #skSet .skwin,html.land #skRen .skwin{width:min(600px,calc(100*var(--vw) - 16px))}
+/* Birleştir: solda tahta, sağda enerji / hedef / bilgi */
+html.land #merge.skin .skwin{width:min(820px,calc(100*var(--vw) - 12px))}
+html.land #merge.skin .skwin>.scroll{display:grid;grid-template-columns:auto minmax(0,1fr);grid-template-rows:auto auto 1fr;column-gap:12px;align-items:start;overflow:hidden}
+html.land #merge.skin .board-wrap{grid-column:1;grid-row:1/4;padding:0;align-self:center}
+html.land #merge.skin .mtop{grid-column:2;grid-row:1;padding:0 0 6px}
+html.land #merge.skin .mgtarget{grid-column:2;grid-row:2;margin:0 0 6px}
+html.land #merge.skin .info{grid-column:2;grid-row:3;margin:0}
+html.land #merge.skin .board{--cell:max(30px,min(52px,calc((100*var(--vh) - 170px)/6)));border-width:18px;gap:3px}
+html.land #merge.skin .info .box.how .tx{font-size:11px}
+/* rehber balonu: geniş ekranda alt ortada */
+html.land #coach .cbub{width:min(calc(100% - 28px),460px)}
+`;document.head.appendChild(st)}
+// Ekibim bir "screen": içindeki çerçeve de tam ekran kaplasın
+{const st=document.createElement('style');st.textContent=`
+html.land .skprof .tx{top:37%;gap:1px}html.land .skprof .tx>*{flex:none}
+/* Ekip Alımı kartı yatayda sıkışık: satırlar tek satır, ayraçlar yok */
+html.land .skhire{padding:8px}
+html.land .skhire .skdiv{display:none}
+html.land .skhire .skhrow{grid-template-columns:16px auto auto minmax(0,1fr);gap:5px}
+html.land .skhire .skhrow .sktag{grid-column:auto;justify-self:end;margin:0}
+html.land .skhire .skbtns{flex-wrap:nowrap}
+html.land .skhire .skbtn{height:32px;font-size:12px}
+html.land .skleft{gap:5px}
+html.land .skads .skbtn{height:32px!important}
+html.land .skads>span{font-size:11px;margin:0}
+html.land .skhire .skport{width:100px;height:124px}
+`;document.head.appendChild(st)}
+{const st=document.createElement('style');st.textContent=`
+html.land .nav{width:min(500px,calc(100*var(--vw) - 270px))!important;border-width:0 40px!important;padding:12px 14px 4px!important}
+html.land #autoBtn{max-width:132px;font-size:11px;padding:0 10px 0 5px;line-height:1.05}
+/* karakter düzenleyici: solda büyük önizleme, sağda seçenekler */
+html.land #ce .scroll{padding-left:calc(36% + 20px)}
+html.land #ce .scroll>.pv{position:absolute;left:12px;top:62px;width:36%;bottom:62px;height:auto;margin:0}
+html.land #ce .scroll>.ce-role{padding-top:6px}
+html.land .ce-foot .row{flex-wrap:nowrap}html.land .ce-foot .btn{padding:6px 10px;font-size:13px}
+html.land .ce-foot{flex-direction:row;align-items:center;justify-content:space-between;padding:6px 14px}
+html.land .ce-foot .cost{text-align:left}
+`;document.head.appendChild(st)}
 
 // ================= BAŞLAT =================
 function applyState(){try{expandMigrate()}catch(e){}if(S.room)setRoom({x0:S.room.x0??RM.x0,x1:S.room.x1??RM.x1,z0:S.room.z0??RM.z0,z1:S.room.z1??RM.z1});   // genişletilmiş kafe: eşyalardan önce oda kurulur
